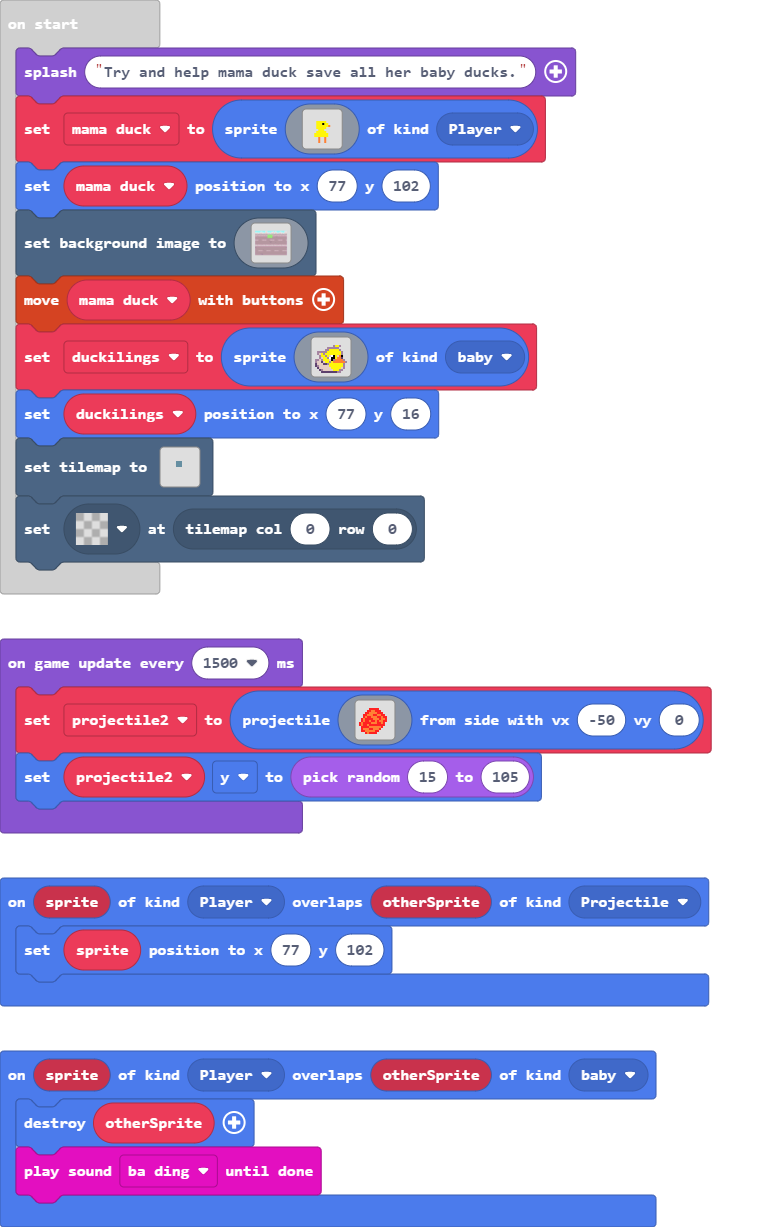
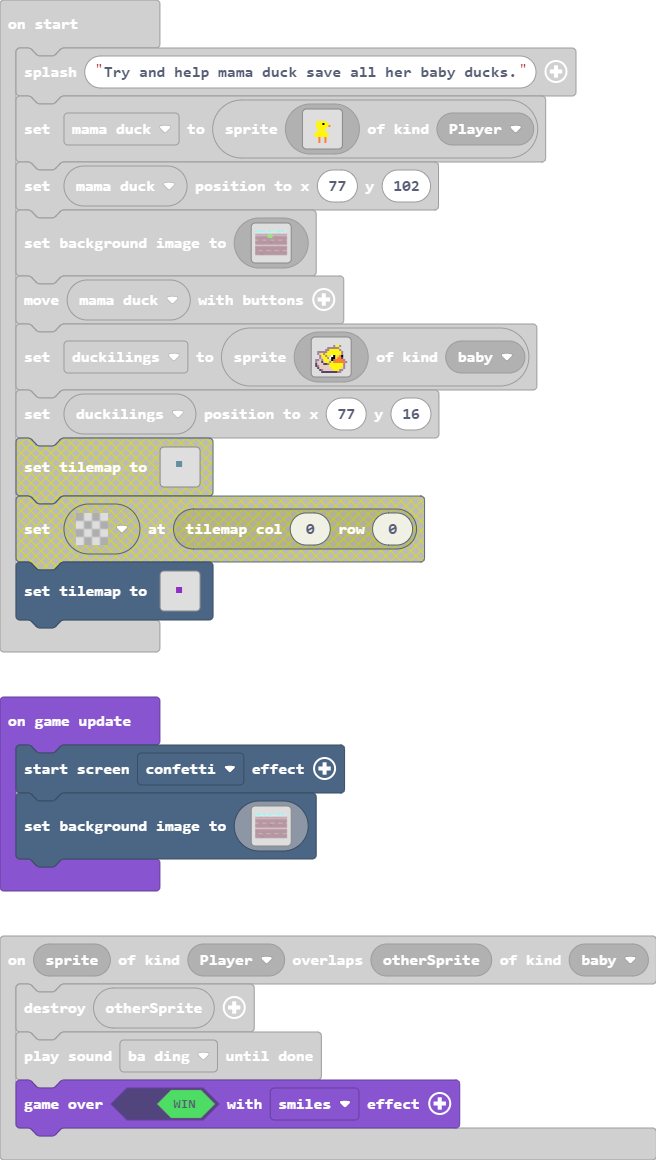
Update main.blocks, main.ts, tilemap.g.jres, tilemap.g.ts

diff --git a/main.ts b/main.ts
@@ -7,6 +7,7 @@ sprites.onOverlap(SpriteKind.Player, SpriteKind.Projectile, function (sprite, ot
 sprites.onOverlap(SpriteKind.Player, SpriteKind.baby, function (sprite, otherSprite) {
     otherSprite.destroy()
     music.baDing.playUntilDone()
+    game.over(true, effects.smiles)
 })
 let projectile2: Sprite = null
 game.splash("Try and help mama duck save all her baby ducks.")
@@ -171,8 +172,132 @@ let duckilings = sprites.create(img`
     . . . c c c c c c c c b b . . . 
     `, SpriteKind.baby)
 duckilings.setPosition(77, 16)
-tiles.setTilemap(tilemap`level1`)
-tiles.setTileAt(tiles.getTileLocation(0, 0), assets.tile`transparency16`)
+tiles.setTilemap(tilemap`level2`)
+game.onUpdate(function () {
+    effects.confetti.startScreenEffect()
+    scene.setBackgroundImage(img`
+        9999999999999999999999999999999999999999999999999999999999999999999999999999999999999999999999999999999999999999999999999999999999999999999999999999999999999999
+        9999999999999999999999999999999999999999999999999999111111111119999999999999999999999999999999999999991111999999999999999999999999999999999999999999111111111111
[12 lines of base64/hex data omitted]
+        cccccccccccccccccccccccccccccccccccccccccccccccccccccccccccccccccccccccccccccccccccccccccccccccccccccccccccccccccccccccccccccccccccccccccccccccccccccccccccccccc
+        1111111111111111111111111111111111111111111111111111111111111111111111111111111111111111111111111111111111111111111111111111111111111111111111111111111111111111
[3 lines of base64/hex data omitted]
+        bbbbbbbbbbbbbbbbbbbbbbbbbbbbbbbbbbbbbbbbbbbbbbbbbbbbbbbbbbbbbbbbbbbbbbbbbbbbbbbbbbbbbbbbbbbbbbbbbbbbbbbbbbbbbbbbbbbbbbbbbbbbbbbbbbbbbbbbbbbbbbbbbbbbbbbbbbbbbbbb
+        bbbbbbbbbbbbbbbbbbbbbbbbbbbbbbbbbbbbbbbbbbbbbbbbbbbbbbbbbbbbbbbbbbbbbbbbbbbbbbbbbbbbbbbbbbbbbbbbbbbbbbbbbbbbbbbbbbbbbbbbbbbbbbbbbbbbbbbbbbbbbbbbbbbbbbbbbbbbbbbb
+        bbbbbbbbbbbbbbbbbbbbbbbbbbbbbbbbbbbbbbbbbbbbbbbbbbbbbbbbbbbbbbbbbbbbbbbbbbbbbbbbbbbbbbbbbbbbbbbbbbbbbbbbbbbbbbbbbbbbbbbbbbbbbbbbbbbbbbbbbbbbbbbbbbbbbbbbbbbbbbbb
+        bbbbbbbbbbbbbbbbbbbbbbbbbbbbbbbbbbbbbbbbbbbbbbbbbbbbbbbbbbbbbbbbbbbbbbbbbbbbbbbbbbbbbbbbbbbbbbbbbbbbbbbbbbbbbbbbbbbbbbbbbbbbbbbbbbbbbbbbbbbbbbbbbbbbbbbbbbbbbbbb
[2 lines of base64/hex data omitted]
+        bbbbbbbbbbbbbbbbbbbbbbbbbbbbbbbbbbbbbbbbbbbbbbbbbbbbbbbbbbbbbbbbbbbbbbbbbbbbbbbbbbbbbbbbbbbbbbbbbbbbbbbbbbbbbbbbbbbbbbbbbbbbbbbbbbbbbbbbbbbbbbbbbbbbbbbbbbbbbbbb
+        bbbbbbbbbbbbbbbbbbbbbbbbbbbbbbbbbbbbbbbbbbbbbbbbbbbbbbbbbbbbbbbbbbbbbbbbbbbbbbbbbbbbbbbbbbbbbbbbbbbbbbbbbbbbbbbbbbbbbbbbbbbbbbbbbbbbbbbbbbbbbbbbbbbbbbbbbbbbbbbb
+        bbbbbbbbbbbbbbbbbbbbbbbbbbbbbbbbbbbbbbbbbbbbbbbbbbbbbbbbbbbbbbbbbbbbbbbbbbbbbbbbbbbbbbbbbbbbbbbbbbbbbbbbbbbbbbccccbbbbbbbbbbbbbbbbbbbbbbbbbbbbbbbbbbbbbbbbbbbbbb
+        bbbbbbbbbbbbbccccbbbbbbbbbbbbbbbbbbbbbbbbbbbbbbbbbbbbbbbbbbbbbbbbbbbbbbbbbbbbbbbbbbbbbbbbbbbbbbbbbbbbbbccccbccbbbbbbbbbbbbbbbbbbbbbbbbbbbbbbbbbbbbbbbbbbbbbbbbbb
+        bbbbbbbbbbbbcbddbcbbbbbbbbbbbbbbbbbbbbbbbbbbbbbbbbbbbbbbbbbbbbbbbbbbbbbbbbbbbbbbbbbbbbbbbbbbbbbbbbbbbbbbbbbccbbbbbbbbbbbbbbbbbbbbbbbbbbbbbbbbbbbbbbbbbbbbbbbbbbb
+        bbbbbbbbbbbbbbbbbbbbbbbbbbbbbbbbbbbbbbbbbbbbbbbbbbbbbbbbbbbbbbbbbbbbbbbbbbbbbbbbbbbbbbbbbbbbbbbbbbbbbbbbbbbbbcbbbbbbbbbbbbbbbbbbbbbbbbbbbbbbbbbbbbbbbbbbbbbbbbbb
+        bbbbbbbbbbbbbbbbbbbbbbbbbbbbbbbbbbbbbbbbbbbbbbbbbbbbbbbbbbbbbbbbbbbbbbbbbbbbbbbbbbbbbbbbbbbbbbbbbbbbbbbbbbbbbbbbbbbbbbbbbbbbbbbbbbbbbbbbbbbbbbbbbbbbbbbbbbbbbbbb
+        bbbbbbbbbbbbbbbbbbbbbbbbbbbbbbbbbbbbbbbbbbbbbbbbbbbbbbbbbbbbbbbbbbbbbbbbbbbbbbbbbbbbbbbbbbbbbbbbbbbbbbbbbbbbbbbbbbbbbbbbbbbbbbbbbbbbbbbbbbbbbbbbbbbbbbbbbbbbbbbb
+        bbbbbbbbbbbbbbbbbbbbbbbbbbbbbbbbbbbbbbbbbbbbbbbbbbbbbbbbbbbbbbbbbbbbbbbbbbbbbbbbbbbbbbbbbbbbbbbbbbbbbbbbbbbbbbbbbbbbbbbbbbbbbbbbbbbbbbbbbbbbbbbbbbbbbbbbbbbbbbbb
+        bbbbbbbbbbbbbbbbbbbbbbbbbbbbbbbbbbbbbbbbbbbbbbbbbbbbbbbbbbbbbbbbbbbbbbbbbbbbbbbbbbbbbbbbbbbbbbbbbbbbbbbbbbbbbbbbbbbbbbbbbbbbbbbbbbbbbbbbbbbbbbbbbbbbbbbbbbbbbbbb
+        bbbbbbbbbbbbbbbbbbbbbbbbbbbbbbbbbbbbbbbbbbbbbbbbbbbbbbbbbbbbbbbbbbbbbbbbbbbbbbbbbbbbbbbbbbbbbbbbbbbbbbbbbbbbbbbbbbbbbbbbbbbbbbbbbbbbbbbbbbbbbbbbbbbbbbbbbbbbbbbb
+        bbbbbbbbbbbbbbbbbbbbbbbbbbbbbbbbbbbbbbbbbbbbbbbbbbbbbbbbbbbbbbbbbbbbbbbbbbbbbbbbbbbbbbbbbbbbbbbbbbbbbbbbbbbbbbbbbbbbbbbbbbbbbbbbbbbbbbbbbbbbbbbbbbbbbbbbbbbbbbbb
+        bbbbbbbbbbbbbbbbbbbbbbbbbbbbbbbbbbbbbbbbbbbbbbbbbbbbbbbbbbbbbbbbbbbbbbbbbbbbbbbbbbbbbbbbbbbbbbbbbbbbbbbbbbbbbbbbbbbbbbbbbbbbbbbbbbbbbbbbbbbbbbbbbbbbbbbbbbbbbbbb
+        bbbbbbbbbbbbbbbbbbbbbbbbbbbbbbbbbbbbbbbbbbbbbbbbbbbbbbbbbbbbbbbbbbbbbbbbbbbbbbbbbbbbbbbbbbbbbbbbbbbbbbbbbbbbbbbbbbbbbbbbbbbbbbbbbbbbbbbbbbbbbbbbbbbbbbbbbbbbbbbb
+        bbbbbbbbbbbbbbbbbbbbbbbbbbbbbbbbbbbbbbbbbbbbbbbbbbbbbbbbbbbbbbbbbbbbbbbbbbbbbbbbbbbbbbbbbbbbbbbbbbbbbbbbbbbbbbbbbbbbbbbbbbbbbbbbbbbbbbbbbbbbbbbbbbbbbbbbbbbbbbbb
+        bbbbbbbbbbbbbbbbbbbbbbbbbbbbbbbbbbbbbbbbbbbbbbbbbbbbbbbbbbbbbbbbbbbbbbbbbbbbbbbbbbbbbbbbbbbbbbbbbbbbbbbbbbbbbbbbbbbbbbbbbbbbbbbbbbbbbbbbbbbbbbbbbbbbbbbbbbbbbbbb
+        bbbbbbbbbbbbbbbbbbbbbbbbbbbbbbbbbbbbbbbbbbbbbbbbbbbbbbbbbbbbbbbbbbbbbbbbbbbbbbbbbbbbbbbbbbbbbbbbbbbbbbbbbbbbbbbbbbbbbbbbbbbbbbbbbbbbbbbbbbbbbbbbbbbbbbbbbbbbbbbb
+        bbbbbbbbbbbbbbbbbbbbbbbbbbbbbbbbbbbbbbbbbbbbbbbbbbbbbbbbbbbbbbbbbbbbbbbbbbbbbbbbbbbbbbbbbbbbbbbbbbbbbbbbbbbbbbbbbbbbbbbbbbbbbbbbbbbbbbbbbbbbbbbbbbbbbbbbbbbbbbbb
+        bbbbbbbbbbbbbbbbbbbbbbbbbbbbbbbbbbbbbbbbbbbbbbbbbbbbbbbbbbbbbbbbbbbbbbbbbbbbbbbbbbbbbbbbbbbbbbbbbbbbbbbbbbbbbbbbbbbbbbbbbbbbbbbbbbbbbbbbbbbbbbbbbbbbbbbbbbbbbbbb
+        bbbbbbbbbbbbbbbbbbbbbbbbbbbbbbbbbbbbbbbbbbbbbbbbbbbbbbbbbbbbbbbbbbbbbbbbbbbbbbbbbbbbbbbbbbbbbbbbbbbbbbbbbbbbbbbbbbbbbbbbbbbbbbbbbbbbbbbbbbbbbbbbbbbbbbbbbbbbbbbb
[2 lines of base64/hex data omitted]
+        bbbbbbbbbbbbbbbbbbbbbbbbbbbbbbbbbbbbbbbbbbbbbbbbbbbbbbbbbbbbbbbbbbbbbbbbbbbbbbbbbbbbbbbbbbbbbbbbbbbbbbbbbbbbbbbbbbbbbbbbbbbbbbbbbbbbbbbbbbbbbbbbbbbbbbbbbbbbbbbb
+        bbbbbbbbbbbbbbbbbbbbbbbbbbbbbbbbbbbbbbbbbbbbbbbbbbbbbbbbbbbbbbbbbbbbbbbbbbbbbbbbbbbbbbbbbbbbbbbbbbbbbbbbbbbbbbbbbbbbbbbbbbbbbbbbbbbbbbbbbbbbbbbbbbbbbbbbbbbbbbbb
+        bbbbbbbbbbbbbbbbbbbbbbbbbbbbbbbbbbbbbbbbbbbbbbbbbbbbbbbbbbbbbbbbbbbbbbbbbbbbbbbbbbbbbbbbbbbbbbbbbbbbbbbbbbbbbbbbbbbbbbbbbbbbbbbbbbbbbbbbbbbbbbbbbbbbbbbbbbbbbbbb
+        bbbbbbbbbbbbbbbbbbbbbbbbbbbbbbbbbbbbbbbbbbbbbbbbbbbbbbbbbbbbbbbbbbbbbbbbbbbbbbbbbbbbbbbbbbbbbbbbbbbbbbbbbbbbbbbbbbbbbbbbbbbbbbbbbbbbbbbbbbbbbbbbbbbbbbbbbbbbbbbb
+        bbbbbbbbbbbbbbbbbbbbbbbbbbbbbbbbbbbbbbbbbbbbbbbbbbbbbbbbbbbbbbbbbbbbbbbbbbbbbbbbbbbbbbbbbbbbbbbbbbbbbbbbbbbbbbbbbbbbbbbbbbbbbbbbbbbbbbbbbbbbbbbbbbbbbbbbbbbbbbbb
+        bbbbbbbbbbbbbbbbbbbbbbbbbbbbbbbbbbbbbbbbbbbbbbbbbbbbbbbbbbbbbbbbbbbbbbbbbbbbbbbbbbbcbbbbbbbbbbbbbbbbbbbbbbbbbbbbbbbbbbbbbbbbbbbbbbbbbbbbbbbbbbbbbbbbbbbbbbbbbbbb
+        bbbbbbbbbbbbbbbbbbbbbbbbbbbbbbbbbbbbbbbbbbbbbbbbbbbbbbbbbbbbbbbbbbbbbbbbbcccbbbccccbbbbbbbbbbbbbbbbbbbbbbbbbbbbbbbbbbbbbbbbbbbbbbbbbbbbbbbbbbbbbbbbbbbbbbbbbbbbb
+        bbbbbbbbbbbbbbbbbbbbbbbbbbbbbbbbbbbbbbbbbbbbbbbbbbbbbbbbbbbbbbbbbbbbbbbbcbbcbbcbcbbbbbbbbbbbbbbbbbbbbbbbbbbbbbbbbbbbbbbbbbbbbbbbbbbbbbbbbbbbbbbbbbbbbbbbbbbbbbbb
+        bbbbbbbbbbbbbbbbbbbbbbbbbbbbbbbbbbbbbbbbbbbbbbbbbbbbbbbbbbbbbbbbbbbbbbbbbbbbccbcbbbbbbbbbbbbbbbbbbbbbbbbbbbbbbbbbbbbbbbbbbbbbbbbbbbbbbbbbbbbbbbbbbbbbbbbbbbbbbbb
+        bbbbbbbbbbbbbbbbbbbbbbbbbbbbbbbbbbbbbbbbbbbbbbbbbbbbbbbbbbbbbbbbbbbbbbbbbbbbbcccccbbbbbbbbbbbbbbbbbbbbbbbbbbbbbbbbbbbbbbbbbbbbbbbbbbbbbbbbbbbbbbbbbbbbbbbbbbbbbb
+        bbbbbbbbbbbbbbbbbbbbbbbbbbbbbbbbbbbbbbbbbbbbbbbbbbbbbbbbbbbbbbbbbbbbbbbbbbbbbbbbbbcbbbbbbbbbbbbbbbbbbbbbbbbbbbbbbbbbbbbbbbbbbbbbbbbbbbbbbbbbbbbbbbbbbbbbbbbbbbbb
+        bbbbbbbbbbbbbbbbbbbbbbbbbbbbbbbbbbbbbbbbbbbbbbbbbbbbbbbbbbbbbbbbbbbbbbbbbbbbbbbbbbbbbbbbbbbbbbbbbbbbbbccccbbbbbbbbbbbbbbbbbbbbbbbbbbbbbbbbbbbbbbbbbbbbbbbbbbbbbb
+        bbbbbbbbbbbbbbbbbbbbbbbbbbbbbbbbbbbbbbbbbbbbbbbbbbbbbbbbbbbbbbbbbbbbbbbbbbbbbbbbbbbbbbbbbbbbbbbbbbbbbcbddbcbbbbbbbbbbbbbbbbbbbbbbbbbbbbbbbbbbbbbbbbbbbbbbbbbbbbb
+        bbbbbbbbbbbbbbbbbbbbbbbbbbbbbbbbbbbbbbbbbbbbbbbbbbbbbbbbbbbbbbbbbbbbbbbbbbbbbbbbbbbbbbbbbbbbbbbbbbbbbbbbbbbbbbbbbbbbbbbbbbbbbbbbbbbbbbbbbbbbbbbbbbbbbbbbbbbbbbbb
+        bbbbbbbbbbbbbbbbbbbbbbbbbbbbbbbbbbbbbbbbbbbbbbbbbbbbbbbbbbbbbbbbbbbbbbbbbbbbbbbbbbbbbbbbbbbbbbbbbbbbbbbbbbbbbbbbbbbbbbbbbbbbbbbbbbbbbbbbbbbbbbbbbbbbbbbbbbbbbbbb
+        bbbbbbbbbbbbbbbbbbbbbbbbbbbbbbbbbbbbbbbbbbbbbbbbbbbbbbbbbbbbbbbbbbbbbbbbbbbbbbbbbbbbbbbbbbbbbbbbbbbbbbbbbbbbbbbbbbbbbbbbbbbbbbbbbbbbbbbbbbbbbbbbbbbbbbbbbbbbbbbb
+        bbbbbbbbbbbbbbbbbbbbbbbbbbbbbbbbbbbbbbbbbbbbbbbbbbbbbbbbbbbbbbbbbbbbbbbbbbbbbbbbbbbbbbbbbbbbbbbbbbbbbbbbbbbbbbbbbbbbbbbbbbbbbbbbbbbbbbbbbbbbbbbbbbbbbbbbbbbbbbbb
+        bbbbbbbbbbbbbbbbbbbbbbbbbbbbbbbbbbbbbbbbbbbbbbbbbbbbbbbbbbbbbbbbbbbbbbbbbbbbbbbbbbbbbbbbbbbbbbbbbbbbbbbbbbbbbbbbbbbbbbbbbbbbbbbbbbbbbbbbbbbbbbbbbbbbbbbbbbbbbbbb
+        bbbbbbbbbbbbbbbbbbbbbbbbbbbbbbbbbbbbbbbbbbbbbbbbbbbbbbbbbbbbbbbbbbbbbbbbbbbbbbbbbbbbbbbbbbbbbbbbbbbbbbbbbbbbbbbbbbbbbbbbbbbbbbbbbbbbbbbbbbbbbbbbbbbbbbbbbbbbbbbb
+        bbbbbbbbbbbbbbbbbbbbbbbbbbbbbbbbbbbbbbbbbbbbbbbbbbbbbbbbbbbbbbbbbbbbbbbbbbbbbbbbbbbbbbbbbbbbbbbbbbbbbbbbbbbbbbbbbbbbbbbbbbbbbbbbbbbbbbbbbbbbbbbbbbbbbbbbbbbbbbbb
+        bbbbbbbbbbbbbbbbbbbbbbbbbbbbbbbbbbbbbbbbbbbbbbbbbbbbbbbbbbbbbbbbbbbbbbbbbbbbbbbbbbbbbbbbbbbbbbbbbbbbbbbbbbbbbbbbbbbbbbbbbbbbbbbbbbbbbbbbbbbbbbbbbbbbbbbbbbbbbbbb
+        bbbbbbbbbbbbbbbbbbbbbbbbbbbbbbbbbbbbbbbbbbbbbbbbbbbbbbbbbbbbbbbbbbbbbbbbbbbbbbbbbbbbbbbbbbbbbbbbbbbbbbbbbbbbbbbbbbbbbbbbbbbbbbbbbbbbbbbbbbbbbbbbbbbbbbbbbbbbbbbb
[2 lines of base64/hex data omitted]
+        bbbbbbbbbbbbbbbbbbbbbbbbbbbbbbbbbbbbbbbbbbbbbbbbbbbbbbbbbbbbbbbbbbbbbbbbbbbbbbbbbbbbbbbbbbbbbbbbbbbbbbbbbbbbbbbbbbbbbbbbbbbbbbbbbbbbbbbbbbbbbbbbbbbbbbbbbbbbbbbb
+        bbbbbbbbbbbbbbbbbbbbbbbbbbbbbbbbbbbbbbbbbbbbbbbbbbbbbbbbbbbbbbbbbbbbbbbbbbbbbbbbbbbbbbbbbbbbbbbbbbbbbbbbbbbbbbbbbbbbbbbbbbbbbbbbbbbbbbbbbbbbbbbbbbbbbbbbbbbbbbbb
[2 lines of base64/hex data omitted]
+        bbbbbbbbbbbbbbbbbbbbbbbbbbbbbbbbbbbbbbbbbbbbbbbbbbbbbbbbbbbbbbbbbbbbbbbbbbbbbbbbbbbbbbbbbbbbbbbbbbbbbbbbbbbbbbbbbbbbbbbbbbbbbbbbbbbbbbbbbbbbbbbbbbbbbbbbbbbbbbbb
+        bbbbbbbbbbbbbbbbbbbbbbbbbbbbbbbbbbbbbbbbbbbbbbbbbbbbbbbbbbbbbbbbbbbbbbbbbbbbbbbbbbbbbbbbbbbbbbbbbbbbbbbbbbbbbbbbbbbbbbbbbbbbbbbbbbbbbbbbbbbbbbbbbbbbbbbbbbbbbbbb
+        bbbbbbbbbbbbbbbbbbbbbbbbbbbbbbbbbbbbbbbbbbbbbbbbbbbbbbbbbbbbbbbbbbbbbbbbbbbbbbbbbbbbbbbbbbbbbbbbbbbbbbbbbbbbbbbbbbbbbbbbbbbbbbbbbbbbbbbbbbbbbbbbbbbbbbbbbbbbbbbb
+        bbbbbbbbbbbbbbbbbbbbbbbbbbbbbbbbbbbbbbbbbbbbbbbbbbbbbbbbbbbbbbbbbbbbbbbbbbbbbbbbbbbbbbbbbbbbbbbbbbbbbbbbbbbbbbbbbbbbbbbbbbbbbbbbbbbbbbbbbbbbbbbbbbbbbbbbbbbbbbbb
+        bbbcccbbbbbbbbbbbbbbbbbbbbbbbbbbbbbbbbbbbbbbbbbbbbbbbbbbbbbbbbbbbbbbbbbbbbbbbbbbbbbbbbbbbbbbbbbbbbbbbbbbbbbbbbbbbbbbbbbbbbbbbbbbbbbbbbbbbbbbbbbbbbbbbbbbbbbbbbbb
+        bbccbbcbbbbbbbbbbbbbbbbbbbbbbbbbbbbbbbbbbbbbbbbbbbbbbbbbbbbbbbbbbbbbbbbbbbbbbbbbbbbbbbbbbbbbbbbbbbbbbbbbbbbbbbbbbbbbbbbbbbbbbbbbbbbbbbbbbbbbbbbbbbbbbbbbbbbbbbbb
+        cccbbbbbbbbbbbbbbbbbbbbbbbbbbbbbbbbbbbbbbbbbbbbbbbbbbbbbbbbbbbbbbbbbbbbbbbbbbbbbbbbbbbbbbbbbbbbbbbbbbbbbbbbbbbbbbbbbbbbbbbbbbbbbbbbbbbbbbbbbbbbbbbbbbbbbbbbbbbbc
+        bccbbbbbbbbbbbbbbbbbbbbbbbbbbbbbbbbbbbbbbbbbbbbbbbbbbbbbbbbbbbbbbbbbbbbbbbbbbbbbbbbbbbbbbbbbbbbbbbbbbbbbbbbbbbbbbbbbbbbbbbbbbbbbbbbbbbbbbbbbbbbbbbbbbbbbbbbbcccc
+        ccccbbbbbbbbbbbbbbbbbbbbbbbbbbbbbbbbbbbbbbbbbbbbbbbbbbbbbbbbbbbbbbbbbbbbbbbbbbbbbbbbbbbbbbbbbbbbbbbbbbbbbbbbbbbbbbbbbbbbbbbbbbbbbbbbbbbbbbbbbbbbbbbbbbbbbbccbbbb
+        bbbbccbbbbbbbbbbbbbbbbbbbbbbbbbbbbbbbbbbbbbbbbbbbbbbbbbbbbbbbbbbbbbbbbbbbbbbbbbbbbbbbbbbbbbbbbbbbbbbbbbbbbbbbbbbbbbbbbbbbbbbbbbbbbbbbbbbbbbbbbbbbbbbbbbbbbbbbbbb
+        bbbbbbbbbbbbbbbbbbbbbbbbbbbbbbbbbbbbbbbbbbbbbbbbbbbbbbbbbbbbbbbbbbbbbbbbbbbbbbbbbbbbbbbbbbbbbbbbbbbbbbbbbbbbbbbbbbbbbbbbbbbbbbbbbbbbbbbbbbbbbbbbbbbbbbbbbbbbbbbb
+        bbbbbbbbbbbbbbbbbbbbbbbbbbbbbbbbbbbbbbbbbbbbbbbbbbbbbbbbbbbbbbbbbbbbbbbbbbbbbbbbbbbbbbbbbbbbbbbbbbbbbbbbbbbbbbbbbbbbbbbbbbbbbbbbbbbbbbbbbbbbbbbbbbbbbbbbbbbbbbbb
+        bbbbbbbbbbbbbbbbbbbbbbbbbbbbbbbbbbbbbbbbbbbbbbbbbbbbbbbbbbbbbbbbbbbbbbbbbbbbbbbbbbbbbbbbbbbbbbbbbbbbbbbbbbbbbbbbbbbbbbbbbbbbbbbbbbbbbbbbbbbbbbbbbbbbbbbbbbbbbbbb
+        bbbbbbbbbbbbbbbbbbbbbbbbbbbbbbbbbbbbbbbbbbbbbbbbbbbbbbbbbbbbbbbbbbbbbbbbbbbbbbbbbbbbbbbbbbbbbbbbbbbbbbbbbbbbbbbbbbbbbbbbbbbbbbbbbbbbbbbbbbbbbbbbbbbbbbbbbbbbbbbb
+        bbbbbbbbbbbbbbbbbbbbbbbbbbbbbbbbbbbbbbbbbbbbbbbbbbbbbbbbbbbbbbbbbbbbbbbbbbbbbbbbbbbbbbbbbbbbbbbbbbbbbbbbbbbbbbbbbbbbbbbbbbbbbbbbbbbbbbbbbbbbbbbbbbbbbbbbbbbbbbbb
+        bbbbbbbbbbbbbbbbbbbbbbbbbbbbbbbbbbbbbbbbbbbbbbbbbbbbbbbbbbbbbbbbbbbbbbbbbbbbbbbbbbbbbbbbbbbbbbbbbbbbbbbbbbbbbbbbbbbbbbbbbbbbbbbbbbbbbbbbbbbbbbbbbbbbbbbbbbbbbbbb
+        bbbbbbbbbbbbbbbbbbbbbbbbbbbbbbbbbbbbbbbbccccbbbbbbbbbbbbbbbbbbbbbbbbbbbbbbbbbbbbbbbbbbbbbbbbbbbbbbbbbbbbbbbbbbbbbbbbbbbbbbbbbbbbbbbbbbbbbbbbbbbbbbbbbbbbbbbbbbbb
+        bbbbbbbbbbbbbbbbbbbbbbbbbbbbbbbbbbbbbbbcbddbcbbbbbbbbbbbbbbbbbbbbbbbbbbbbbbbbbbbbbbbbbbbbbbbbbbbbbbbbbbbbbbbbbbbbbbbbbbbbbbbbbbbbbbbbbbbbbbbbbbbbbbbbbbbbbbbbbbb
+        bbbbbbbbbbbbbbbbbbbbbbbbbbbbbbbbbbbbbbbbbbbbbbbbbbbbbbbbbbbbbbbbbbbbbbbbbbbbbbbbbbbbbbbbbbbbbbbbbbbbbbbbbbbbbbbbbbbbbbbbbbbbbbbbbbbbbbbbbbbbbbbbbbbbbbbbbbbbbbbb
+        bbbbbbbbbbbbbbbbbbbbbbbbbbbbbbbbbbbbbbbbbbbbbbbbbbbbbbbbbbbbbbbbbbbbbbbbbbbbbbbbbbbbbbbbbbbbbbbbbbbbbbbbbbbbbbbbbbbbbbbbbbbbbbbbbbbbbbbbbbbbbbbbbbbbbbbbbbbbbbbb
+        bbbbbbbbbbbbbbbbbbbbbbbbbbbbbbbbbbbbbbbbbbbbbbbbbbbbbbbbbbbbbbbbbbbbbbbbbbbbbbbbbbbbbbbbbbbbbbbbbbbbbbbbbbbbbbbbbbbbbbbbbbbbbbbbbbbbbbbbbbbbbbbbbbbbbbbbbbbbbbbb
+        bbbbbbbbbbbbbbbbbbbbbbbbbbbbbbbbbbbbbbbbbbbbbbbbbbbbbbbbbbbbbbbbbbbbbbbbbbbbbbbbbbbbbbbbbbbbbbbbbbbbbbbbbbbbbbbbbbbbbbbbbbbbbbbbbbbbbbbbbbbbbbbbbbbbbbbbbbbbbbbb
[2 lines of base64/hex data omitted]
+        bbbbbbbbbbbbbbbbbbbbbbbbbbbbbbbbbbbbbbbbbbbbbbbbbbbbbbbbbbbbbbbbbbbbbbbbbbbbbbbbbbbbbbbbbbbbbbbbbbbbbbbbbbbbbbbbbbbbbbbbbbbbbbbbbbbbbbbbbbbbbbbbbbbbbbbbbbbbbbbb
+        bbbbbbbbbbbbbbbbbbbbbbbbbbbbbbbbbbbbbbbbbbbbbbbbbbbbbbbbbbbbbbbbbbbbbbbbbbbbbbbbbbbbbbbbbbbbbbbbbbbbbbbbbbbbbbbbbbbbbbbbbbbbbbbbbbbbbbbbbbbbbbbbbbbbbbbbbbbbbbbb
+        bbbbbbbbbbbbbbbbbbbbbbbbbbbbbbbbbbbbbbbbbbbbbbbbbbbbbbbbbbbbbbbbbbbbbbbbbbbbbbbbbbbbbbbbbbbbbbbbbbbbbbbbbbbbbbbbbbbbbbbbbbbbbbbbbbbbbbbbbbbbbbbbbbbbbbbbbbbbbbbb
+        bbbbbbbbbbbbbbbbbbbbbbbbbbbbbbbbbbbbbbbbbbbbbbbbbbbbbbbbbbbbbbbbbbbbbbbbbbbbbbbbbbbbbbbbbbbbbbbbbbbbbbbbbbbbbbbbbbbbbbbbbbbbbbbbbbbbbbbbbbbbbbbbbbbbbbbbbbbbbbbb
+        bbbbbbbbbbbbbbbbbbbbbbbbbbbbbbbbbbbbbbbbbbbbbbbbbbbbbbbbbbbbbbbbbbbbbbbbbbbbbbbbbbbbbbbbbbbbbbbbbbbbbbbbbbbbbbbbbbbbbbbbbbbbbbbbbbbbbbbbbbbbbbbbbbbbbbbbbbbbbbbb
+        bbbbbbbbbbbbbbbbbbbbbbbbbbbbbbbbbbbbbbbbbbbbbbbbbbbbbbbbbbbbbbbbbbbbbbbbbbbbbbbbbbbbbbbbbbbbbbbbbbbbbbbbbbbbbbbbbbbbbbbbbbbbbbbbbbbbbbbbbbbbbbbbbbbbbbbbbbbbbbbb
+        bbbbbbbbbbbbbbbbbbbbbbbbbbbbbbbbbbbbbbbbbbbbbbbbbbbbbbbbbbbbbbbbbbbbbbbbbbbbbbbbbbbbbbbbbbbbbbbbbbbbbbbbbbbbbbbbbbbbbbbbbbbbbbbbbbbbbbbbbbbbbbbbbbbbbbbbbbbbbbbb
+        bbbbbbbbbbbbbbbbbbbbbbbbbbbbbbbbbbbbbbbbbbbbbbbbbbbbbbbbbbbbbbbbbbbbbbbbbbbbbbbbbbbbbbbbbbbbbbbbbbbbbbbbbbbbbbbbbbbbbbbbbbbbbbbbbbbbbbbbbbbbbbbbbbbbbbbbbbbbbbbb
+        bbbbbbbbbbbbbbbbbbbbbbbbbbbbbbbbbbbbbbbbbbbbbbbbbbbbbbbbbbbbbbbbbbbbbbbbbbbbbbbbbbbbbbbbbbbbbbbbbbbbbbbbbbbbbbbbbbbbbbbbbbbbbbbbbbbbbbbbbbbbbbbbbbbbbbbbbbbbbbbb
+        bbbbbbbbbbbbbbbbbbbbbbbbbbbbbbbbbbbbbbbbbbbbbbbbbbbbbbbbbbbbbbbbbbbbbbbbbbbbbbbbbbbbbbbbbbbbbbbbbbbbbbbbbbbbbbbbbbbbbbbbbbbbbbbbbbbbbbbbbbbbbbbbbbbbbbbbbbbbbbbb
+        ccbbbbbbbbbbbbbbbbbbbbbbbbbbbbbbbbbbbbbbbbbbbbbbbbbbbbbbbbbbbbbbbbbbbbbbbbbbbbbbbbbbbbbbbbbbbbbbbbbbbbbbbbbbbbbbbbbbbbbbbbbbbbbbbbbbbbbbbbbbbbbbbbbbbbbbbbbbbbcc
+        dbcbbbbbbbbbbbbbbbbbbbbbbbbbbbbbbbbbbbbbbbbbbbbbbbbbbbbbbbbbbbbbbbbbbbbbbbbbbbbbbbbbbbbbbbbbbbbbbbbbbbbbbbbbbbbbbbbbbbbbbbbbbbbbbbbbbbbbbbbbbbbbbbbbbbbbbbbbbcbd
+        bbbbbbbbbbbbbbbbbbbbbbbbbbbbbbbbbbbbbbbbbbbbbbbbbbbbbbbbbbbbbbbbbbbbbbbbbbbbbbbbbbbbbbbbbbbbbbbbbbbbbbbbbbbbbbbbbbbbbbbbbbbbbbbbbbbbbbbbbbbbbbbbbbbbbbbbbbbbbbbb
+        bbbbbbbbbbbbbbbbbbbbbbbbbbbbbbbbbbbbbbbbbbbbbbbbbbbbbbbbbbbbbbbbbbbbbbbbbbbbbbbbbbbbbbbbbbbbbbbbbbbbbbbbbbbbbbbbbbbbbbbbbbbbbbbbbbbbbbbbbbbbbbbbbbbbbbbbbbbbbbbb
+        bbbbbbbbbbbbbbbbbbbbbbbbbbbbbbbbbbbbbbbbbbbbbbbbbbbbbbbbbbbbbbbbbbbbbbbbbbbbbbbbbbbbbbbbbbbbbbbbbbbbbbbbbbbbbbbbbbbbbbbbbbbbbbbbbbbbbbbbbbbbbbbbbbbbbbbbbbbbbbbb
+        bbbbbbbbbbbbbbbbbbbbbbbbbbbbbccbbbbbbbbcbbbbbbbbbbbbbbbbbbbbbbbbbbbbbbbbbbbbbbbbbbbbbbbbbbbbbbbbbbbbbbbbbbbbbbbbbbbbbbbbbbbbbbbbbbbbbbbbbbbbbbbbbbbbbbbbbbbbbbbb
+        bbbbbbbbbbbbbbbbbbbbbbbbbbbbbbbbcccccccbbbbbbbbbbbbbbbbbbbbbbbbbbbbbbbbbbbbbbbbbbbbbbbbbbbbbbbbbbbbbbbbbbbbbbbbbbbbbbbbbbbbbbbbbbbbbbbbbbbbbbbbbbbbbbbbbbbbbbbbb
+        bbbbbbbbbbbbbbbbbbbbbbbbbbbbbbbbbbcbcbbbbbbbbbbbbbbbbbbbbbbbbbbbbbbbbbbbbbbbbbbbbbbbbbbbbbbbbbbbbbbbbbbbbbbbbbbbbbbbbbbbbbbbbbbbbbbbbbbbbbbbbbbbbbbbbbbbbbbbbbbb
+        bbbbbbbbbbbbbbbbbbbbbbbbbbbbbbbbbbbcccbbbbbbbbbbbbbbbbbbbbbbbbbbbbbbbbbbbbbbbbbbbbbbbbbbbbbbbbbbbbbbbbbbbbbbbbbbbbbbbbbbbbbbbbbbbbbbbbbbbbbbbbbbbbbbbbbbbbbbbbbb
+        bbbbbbbbbbbbbbbbbbbbbbbbbbbbbbbbbbbbbbccbbbbbbbbbbbbbbbbbbbbbbbbbbbbbbbbbbbbbbbbbbbbbbbbbbbbbbbbbbbbbbbbbbbbbbbbbbbbbbbbbbbbbbbbbbbbbbbbbbbbbbbbbbbbbbbbbbbbbbbb
+        bbbbbbbbbbbbbbbbbbbbbbbbbbbbbbbbbbbbbbbbbbbbbbbbbbbbbbbbbbbbbbbbbbbbbbbbbbbbbbbbbbbbbbbbbbbbbbbbbbbbbbbbbbbbbbbbbbbbbbbbbbbbbbbbbbbbbbbbbbbbbbbbbbbbbbbbbbbbbbbb
+        `)
+})
 game.onUpdateInterval(1500, function () {
     projectile2 = sprites.createProjectileFromSide(assets.image`fireball`, -50, 0)
     projectile2.y = randint(15, 105)

diff --git a/tilemap.g.ts b/tilemap.g.ts
@@ -24,6 +24,25 @@ namespace myTiles {
 . . . . . . . . . . . . . . . . 
 . . . . . . . . . . . . . . . . 
 `, [myTiles.transparency16,sprites.dungeon.buttonTealDepressed], TileScale.Sixteen);
+            case "level2":
+            case "level2":return tiles.createTilemap(hex`1000100000000000000000000000000000000000000000000000000000000000000000000000000000000000000000000000000000000000000000000000000000000000000000000000000000000000000000000000000000000000000000000000000000000000000001010100000000000000000000000000010101000000000000000000000000000101010000000000000000000000000000000000000000000000000000000000000000000000000000000000000000000000000000000000000000000000000000000000000000000000000000000000000000000000000000000000000000000000000000000000000000000000000000000000000000000000`, img`
+. . . . . . . . . . . . . . . . 
+. . . . . . . . . . . . . . . . 
+. . . . . . . . . . . . . . . . 
+. . . . . . . . . . . . . . . . 
+. . . . . . . . . . . . . . . . 
+. . . . . . . . . . . . . . . . 
+. . . . . . . . . . . . . . . . 
+. . . . . . . . . . . . . . . . 
+. . . . . . . . . . . . . . . . 
+. . . . . . . . . . . . . . . . 
+. . . . . . . . . . . . . . . . 
+. . . . . . . . . . . . . . . . 
+. . . . . . . . . . . . . . . . 
+. . . . . . . . . . . . . . . . 
+. . . . . . . . . . . . . . . . 
+. . . . . . . . . . . . . . . . 
+`, [myTiles.transparency16,sprites.swamp.swampTile9], TileScale.Sixteen);
         }
         return null;
     })
